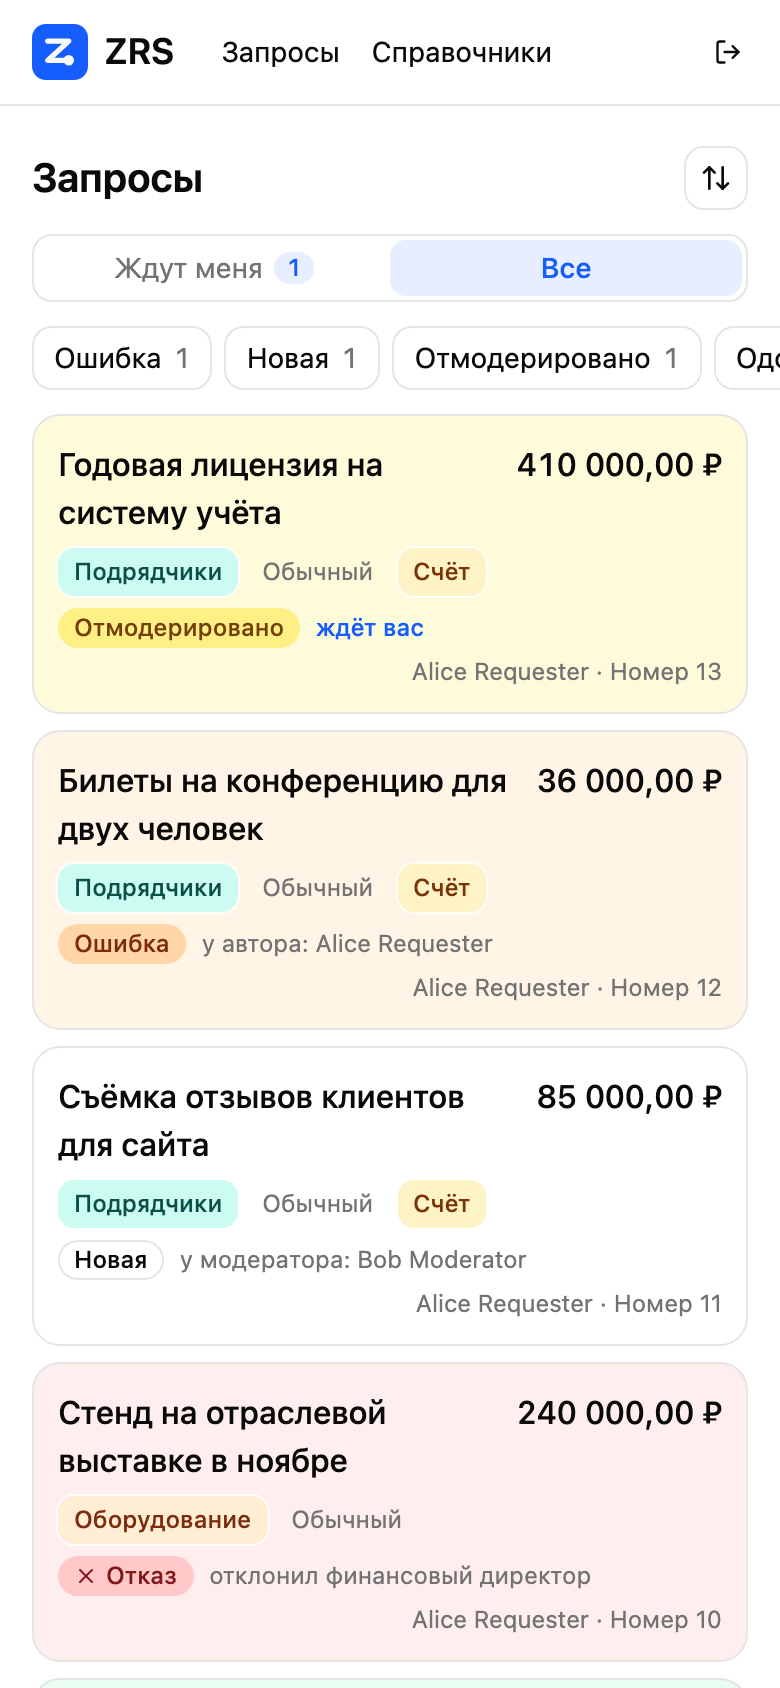
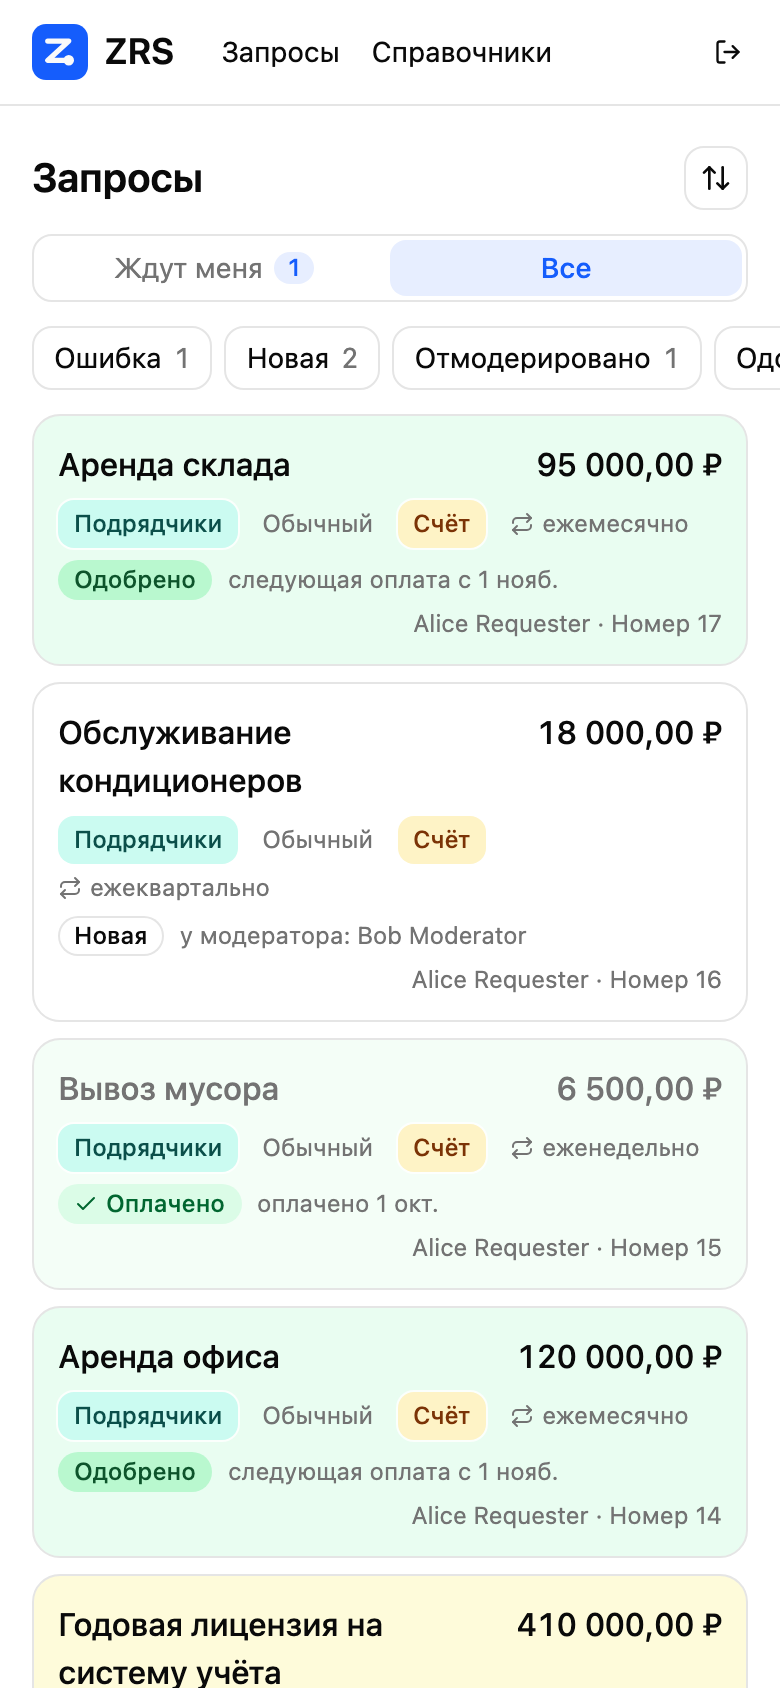
docs: recurring requests in the README, screenshots with them

diff --git a/README.md b/README.md
@@ -85,11 +85,13 @@ stateDiagram-v2
 
 На схеме нет статуса «Отказ». В него запрос переводят модератор или финансовый директор на своём шаге, а автор может отменить запрос сам, пока он не оплачен.
 
+Запрос может быть периодическим: раз в неделю, месяц, квартал или год. Его согласуют один раз, а платят каждый период. После отметки оплаты он остаётся одобренным, уходит из очереди исполнителя и возвращается в неё в первый день следующего периода. Каждая оплата записана с датой и суммой. Когда платежи больше не нужны, автор или финансовый директор завершает запрос.
+
 | Роль | Что делает |
 |---|---|
-| Сотрудник | подаёт запросы, правит и отменяет свои |
+| Сотрудник | подаёт запросы, правит и отменяет свои, завершает свои периодические |
 | Модератор | утверждает, передаёт финансовому директору, возвращает или отклоняет запросы, где он выбран |
-| Финансовый директор | решает по переданным запросам, меняет исполнителя одобренного запроса и ведёт справочники |
+| Финансовый директор | решает по переданным запросам, меняет исполнителя одобренного запроса, завершает периодические и ведёт справочники |
 | Исполнитель выплаты | платит по одобренным запросам, которые назначены ему или никому, и отмечает оплату |
 
 Второй уровень согласования включает сам модератор: запрос, который он передал, ждёт финансового директора. Финансовый директор не решает по запросу, где он автор или модератор.
